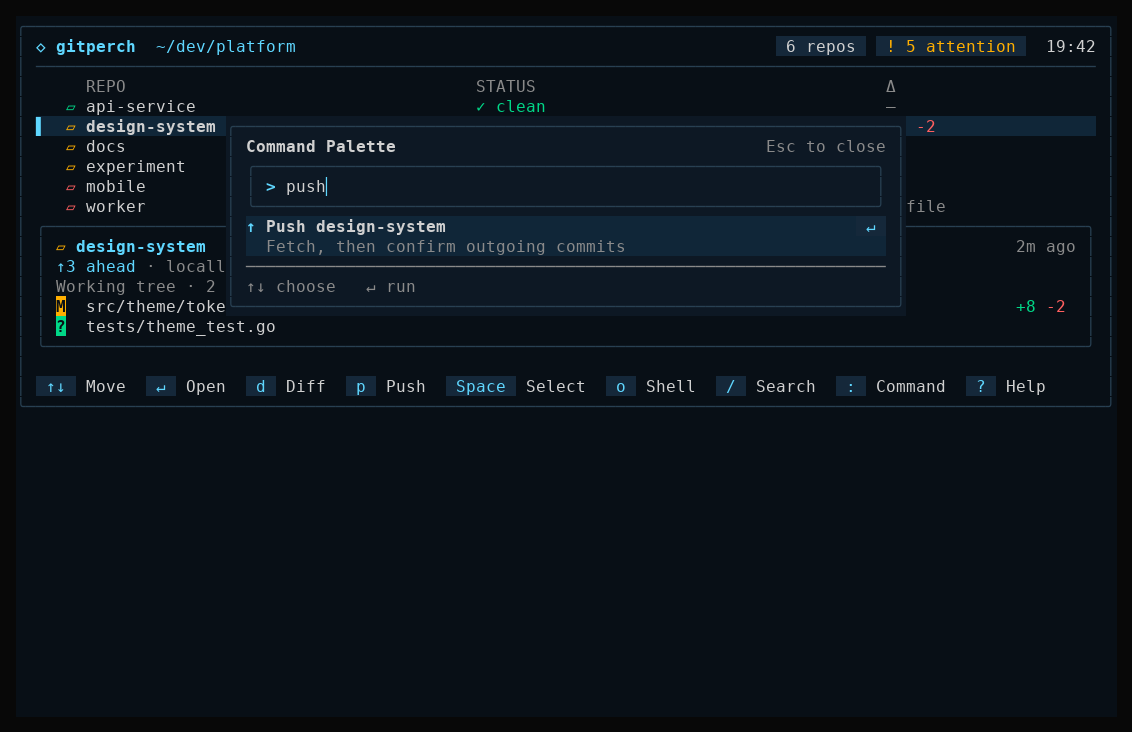
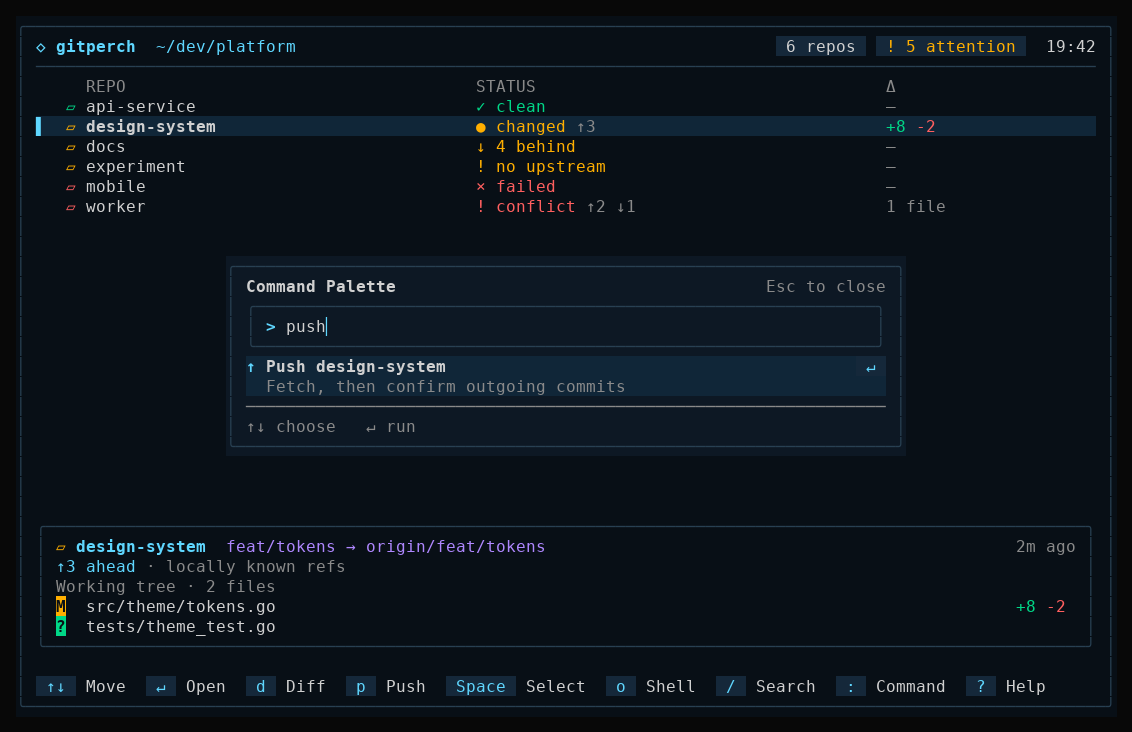
feat(tui): dock the preview and key hints to the bottom of the screen
Fill the terminal height so the repository list starts at the top and
the selected repository's preview sits above the key hints. Size the
preview for the last 10 commits beside the changed files, and grow it
to fit more than 10 changed files into the rows the list leaves free,
keeping a blank margin below the list. Read 30 recent commits so the
details Commits tab has more history.

diff --git a/internal/tui/refinement_test.go b/internal/tui/refinement_test.go
@@ -13,22 +13,21 @@ import (
 	"testing"
 )
 
-func TestSmallWorkspaceKeepsPreviewNextToList(t *testing.T) {
-	m := New(nil, nil, true)
-	m.applySnapshot(app.Snapshot{Rows: dashboardRows()})
-	m.width, m.height = 160, 45
-	lines := strings.Split(m.View().Content, "\n")
-	last, preview := -1, -1
-	for i, line := range lines {
-		if strings.Contains(line, "worker") {
-			last = i
+func TestPreviewAndFooterDockToBottom(t *testing.T) {
+	for _, size := range [][2]int{{160, 45}, {110, 35}, {78, 28}, {60, 20}} {
+		m := New(nil, nil, true)
+		m.applySnapshot(app.Snapshot{Rows: dashboardRows()})
+		m.width, m.height = size[0], size[1]
+		lines := strings.Split(m.View().Content, "\n")
+		if len(lines) != m.height || !strings.HasPrefix(lines[len(lines)-1], "╰") {
+			t.Fatalf("%v: frame does not fill the terminal: %d lines", size, len(lines))
 		}
-		if strings.Contains(line, "╭") && last >= 0 && preview < 0 {
-			preview = i
+		if !strings.Contains(lines[len(lines)-2], "Help") && !strings.Contains(lines[len(lines)-2], "Move") {
+			t.Fatalf("%v: footer not on the bottom row: %q", size, lines[len(lines)-2])
 		}
-	}
-	if last < 0 || preview != last+1 {
-		t.Fatalf("preview separated from list: %d -> %d", last, preview)
+		if m.layout().bottom > 2 && !strings.Contains(lines[len(lines)-4], "╰") {
+			t.Fatalf("%v: preview not docked above the footer: %q", size, lines[len(lines)-4])
+		}
 	}
 }
 func TestTabTogglesFocusAndRetainsRepository(t *testing.T) {
@@ -196,5 +195,53 @@ func TestSuggestedPushWorksInDetails(t *testing.T) {
 	}
 	if m.actionCancel != nil {
 		m.actionCancel()
+	}
+}
+
+func TestPreviewHeightFollowsContentAndRoom(t *testing.T) {
+	files := make([]gitcli.ChangedFile, 30)
+	for i := range files {
+		files[i] = gitcli.ChangedFile{Code: " M", Path: fmt.Sprintf("file%02d.go", i)}
+	}
+	m := New(nil, nil, true)
+	m.EnableDetails(func(context.Context, string) (gitcli.RepoDetails, error) { return gitcli.RepoDetails{}, nil })
+	m.applySnapshot(app.Snapshot{Rows: dashboardRows()})
+	m.width, m.height = 160, 45
+	path := m.highlightedRow().Path
+	commits := make([]gitcli.Commit, 30)
+	for i := range commits {
+		commits[i] = gitcli.Commit{OID: fmt.Sprintf("c%02d", i), Subject: "change"}
+	}
+	m.detailCache[path] = detailResult{data: gitcli.RepoDetails{Files: files[:2]}}
+	if got := m.layout().bottom - 2; got != 7 {
+		t.Fatalf("two files: preview %d rows, want 7", got)
+	}
+	for _, n := range []int{0, 2, 10} {
+		m.detailCache[path] = detailResult{data: gitcli.RepoDetails{Files: files[:n], Commits: commits}}
+		if got := m.layout().bottom - 2; got != previewCommits+5 {
+			t.Fatalf("%d files: preview %d rows, want room for %d commits", n, got, previewCommits)
+		}
+	}
+	if v := m.View().Content; !strings.Contains(v, "c09") || strings.Contains(v, "c10") {
+		t.Fatal("preview did not show exactly the last ten commits")
+	}
+	m.detailCache[path] = detailResult{data: gitcli.RepoDetails{Files: files, Commits: commits}}
+	l := m.layout()
+	if got := l.bottom - 2; got != 45-6-(len(m.visibleRows())+1)-previewMargin || l.slots < len(m.visibleRows()) {
+		t.Fatalf("many files: preview %d rows, list %d slots", got, l.slots)
+	}
+	if !strings.Contains(m.View().Content, "file20.go") {
+		t.Fatal("tall preview did not list more files")
+	}
+
+	many := make([]app.Row, 60)
+	for i := range many {
+		many[i] = dashboardRows()[0]
+		many[i].Path = fmt.Sprintf("/repo/%02d", i)
+	}
+	m.applySnapshot(app.Snapshot{Rows: many})
+	m.detailCache[m.highlightedRow().Path] = detailResult{data: gitcli.RepoDetails{Files: files}}
+	if got := m.layout().bottom - 2; got != 45/3 {
+		t.Fatalf("long list: preview %d rows, want a third", got)
 	}
 }

diff --git a/internal/tui/view.go b/internal/tui/view.go
@@ -70,11 +70,20 @@ type dashboardLayout struct {
 	listWidth, body, slots, bottom int
 }
 
-// Geometry follows content as well as the viewport. A small workspace must not
-// create a screenful of blank rows between repositories and their context.
+const (
+	previewCommits = 10 // commits the card is sized for when files do not need more
+	previewMargin  = 1  // blank rows kept between the list and a grown card
+)
+
+// Geometry follows content as well as the viewport. Spare height goes between
+// the repository list and the preview, which stays docked above the footer.
 func (m *Model) layout() dashboardLayout {
 	w, h := max(1, m.width), max(1, m.height)
 	l := dashboardLayout{listWidth: max(1, w-4), bottom: 2}
+	notice := 0
+	if m.notice() != "" {
+		notice = 1
+	}
 	preview := 0
 	if h >= 20 {
 		desired := 6
@@ -83,16 +92,17 @@ func (m *Model) layout() dashboardLayout {
 			if result, ok := m.detailCache[row.Path]; ok {
 				count = len(result.data.Files)
 				if w >= 120 {
-					count = max(count, len(result.data.Commits))
+					// Beside the files, the card always has room for the last
+					// previewCommits commits; only more files make it taller.
+					count = max(count, min(len(result.data.Commits), previewCommits))
 				}
 			}
 			desired = max(6, count+5)
 		}
-		preview = min(desired, 12, max(6, h/3))
-	}
-	notice := 0
-	if m.notice() != "" {
-		notice = 1
+		// The card grows into rows the list does not need, keeping a margin
+		// below the list; a long list still leaves it a third of the screen.
+		listNeed := max(4, len(m.visibleRows())+1)
+		preview = min(desired, max(6, h/3, h-6-notice-listNeed-previewMargin))
 	}
 	capacity := max(1, h-6-preview-notice)
 	l.body = min(max(4, len(m.visibleRows())+1), capacity)
@@ -126,6 +136,9 @@ func (m *Model) workspaceLines() []string {
 	w := l.listWidth
 	lines := []string{m.summaryLineAt(w), m.searchLineAt(w)}
 	lines = append(lines, m.repositoryList(l)...)
+	// The frame fills the terminal: header and list at the top, preview,
+	// notice and key hints anchored to the bottom.
+	lines = append(lines, make([]string, max(0, m.height-2-len(lines)-l.bottom))...)
 	previewHeight := l.bottom - 2
 	if m.notice() != "" {
 		previewHeight--

diff --git a/internal/tui/preview.go b/internal/tui/preview.go
@@ -83,7 +83,7 @@ func (m *Model) selectedPreview(w, h int) []string {
 		}
 		if split {
 			right := ""
-			if i < len(result.data.Commits) {
+			if i < min(len(result.data.Commits), previewCommits) {
 				right = m.renderCommit(result.data.Commits[i], rightWidth)
 			}
 			line = cell(line, leftWidth) + m.style(" │ ", border, false) + cell(right, rightWidth)

diff --git a/internal/git/details.go b/internal/git/details.go
@@ -87,7 +87,7 @@ func (r Runner) Details(ctx context.Context, path string) (RepoDetails, error) {
 	if headErr != nil {
 		return d, headErr
 	}
-	out, err = r.Run(ctx, path, "log", "-8", "--format=%h%x00%ct%x00%s%x00")
+	out, err = r.Run(ctx, path, "log", "-30", "--format=%h%x00%ct%x00%s%x00")
 	if err != nil {
 		return d, err
 	}

diff --git a/docs/ui.md b/docs/ui.md
@@ -24,7 +24,12 @@ the tracking state (`↑ 3 commits`, `↓ 4 behind`). Zero tracking counts stay 
 
 The highlighted repository's preview is a bordered card: name, branch → upstream
 and last activity, then its status line and changed files with colored status
-chips. Key hints are filled keycaps at the bottom; the least important ones drop
+chips. The dashboard fills the terminal height: the list starts at the top and
+the preview card stays docked just above the key hints. On wide terminals the
+card is sized for the last 10 commits beside the changed files; more than 10
+changed files make it taller, up to the rows the list leaves free minus a blank
+margin below the list. With a long list it keeps about a third of the screen.
+Remaining spare rows sit between the list and the card. Key hints are filled keycaps on the bottom row; the least important ones drop
 first on narrow terminals, and only keys that work for the highlighted
 repository appear.
 

diff --git a/CHANGELOG.md b/CHANGELOG.md
@@ -22,6 +22,10 @@ and this project adheres to [Semantic Versioning](https://semver.org/spec/v2.0.0
 - The dashboard refreshes local status automatically while idle, every 30
   seconds by default (`[ui] refresh_seconds`, `0` disables). The footer now
   shows the `r` manual refresh key.
+- The dashboard fills the terminal height, keeping the selected repository
+  preview and the key hints anchored to the bottom. The preview shows the last
+  10 commits beside the changed files and grows to fit more than 10 changed
+  files when the terminal has room.
 - MIT license, contributing guide, code of conduct, security policy, agent
   instructions (`AGENTS.md`), issue and pull request templates, and Dependabot
   configuration.
